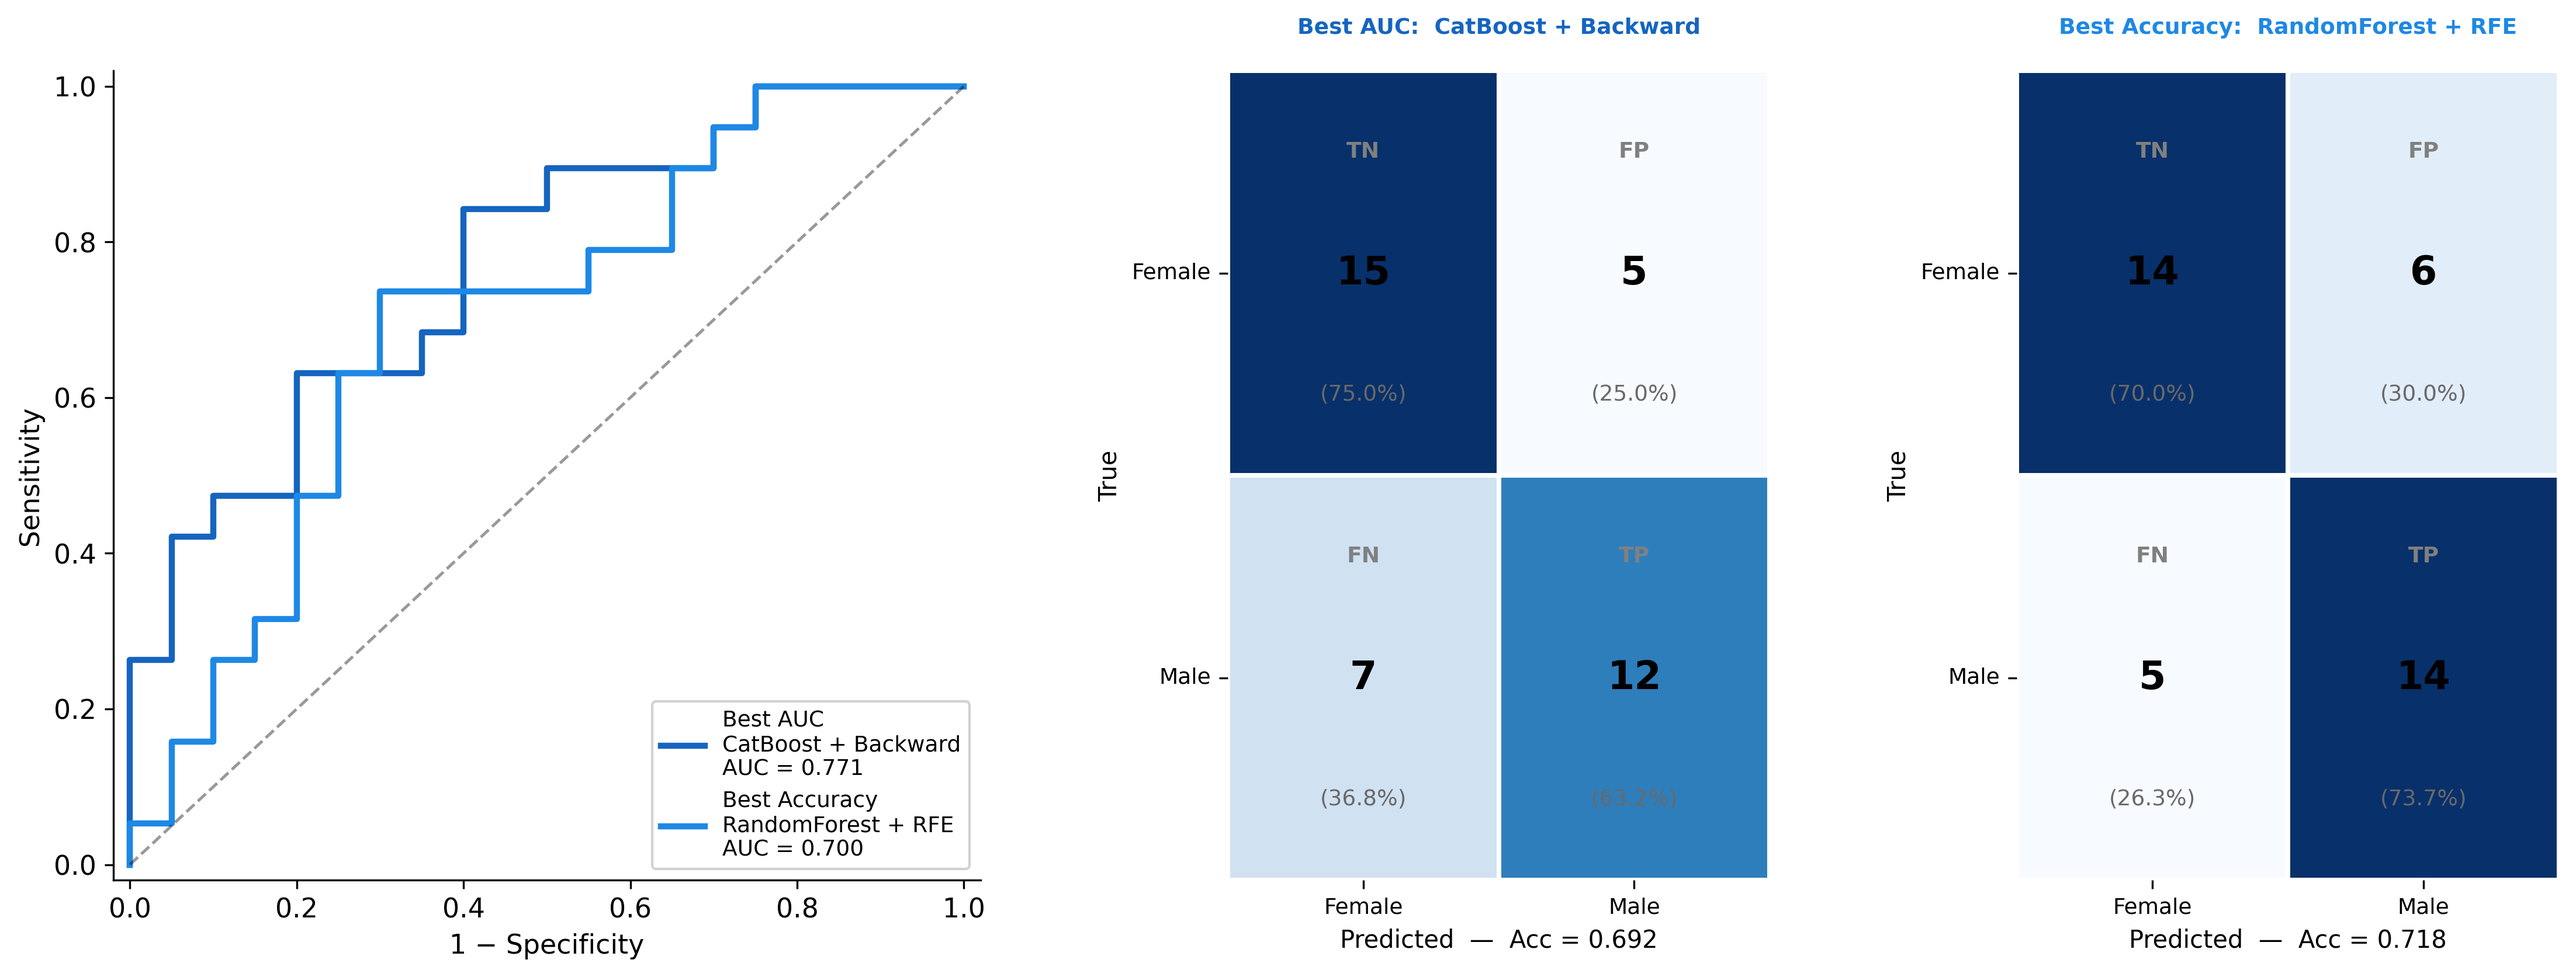
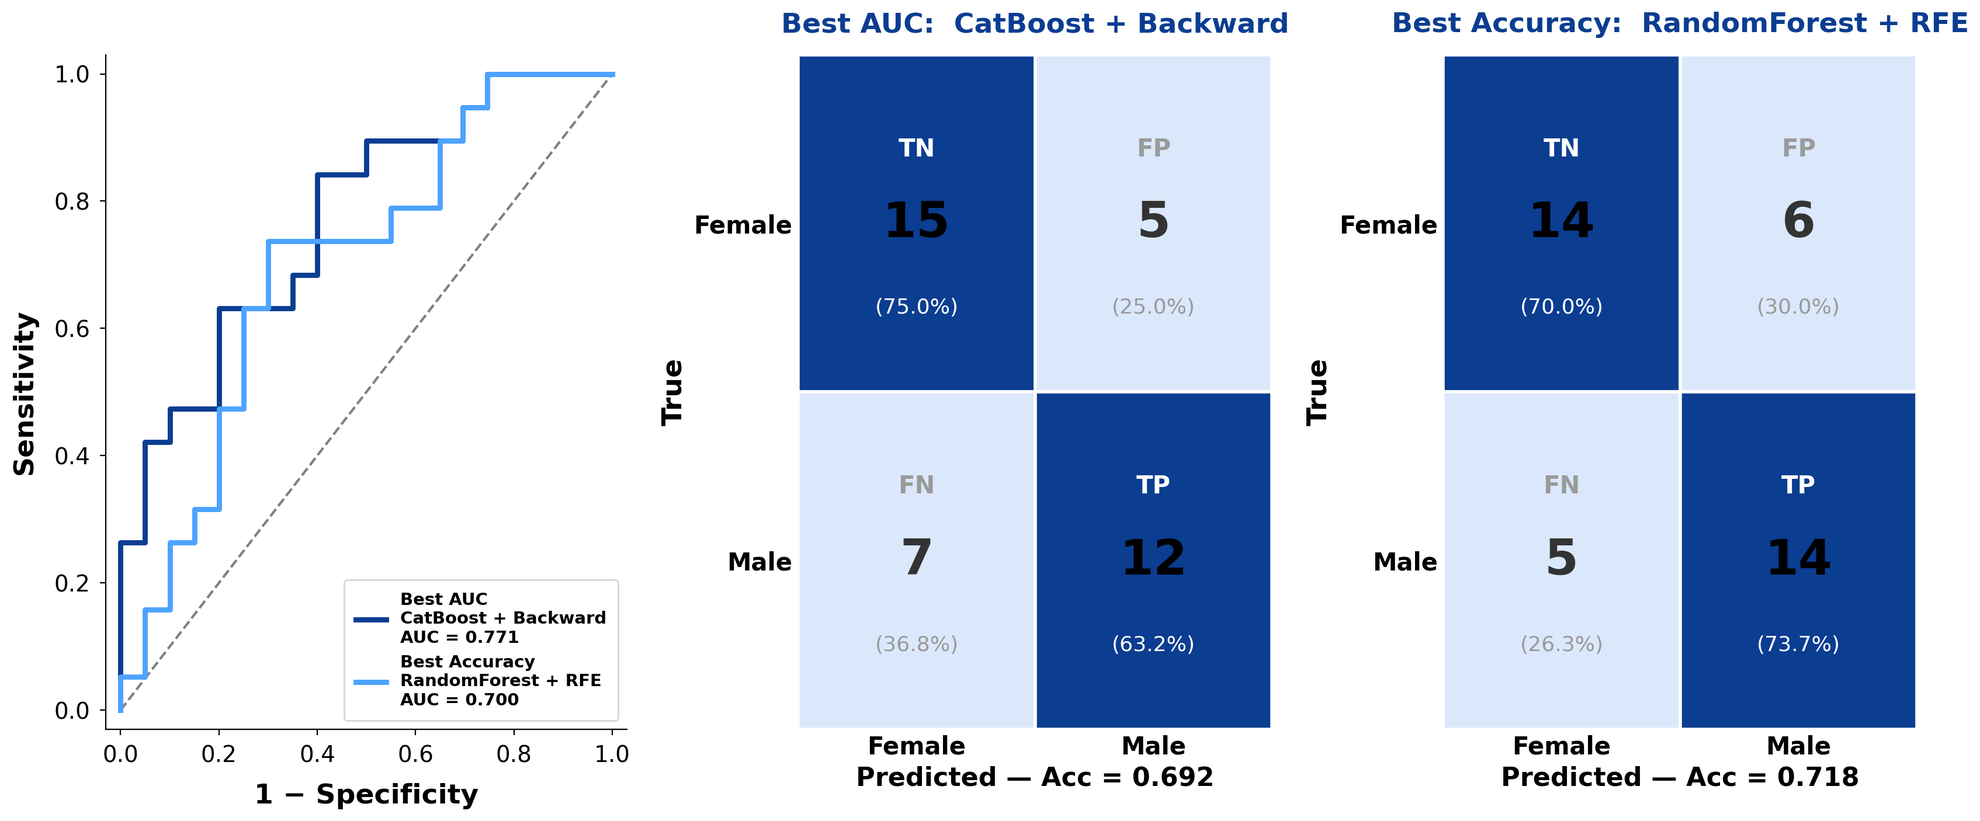
Update README and publication figures

diff --git a/README.md b/README.md
@@ -1,15 +1,15 @@
-# Machine Learning-Driven Forensic Sex Prediction Using CT-Based Nasal and Maxillary Sinus Metrics
+# Machine learning-driven forensic sex prediction using CT-based nasal and maxillary sinus metrics
 
 [![License: MIT](https://img.shields.io/badge/License-MIT-yellow.svg)](LICENSE)
 [![Python](https://img.shields.io/badge/python-3.12-blue.svg)](requirements.txt)
-[![Journal](https://img.shields.io/badge/Journal-International%20Journal%20of%20Legal%20Medicine-8A2BE2)](#citation)
+[![Journal](https://img.shields.io/badge/Journal-International%20Journal%20of%20Legal%20Medicine-8A2BE2)](https://link.springer.com/article/10.1007/s00414-026-03951-6)
+[![DOI](https://img.shields.io/badge/DOI-10.1007%2Fs00414--026--03951--6-0F6AB4)](https://doi.org/10.1007/s00414-026-03951-6)
 
 Reproducible machine learning pipeline for sex estimation from CT-based nasal and maxillary
 sinus anthropometry in an Egyptian population, comparing two feature-selection /
 hyperparameter-tuning framework orderings across six classifiers.
 
-<!-- TODO(Khaled): replace with the live DOI link once the paper is published -->
-📄 **Published in** *International Journal of Legal Medicine* — [DOI link](PASTE_PUBLISHED_LINK_HERE)
+📄 **Published online:** 19 September 2026 in *International Journal of Legal Medicine*. **Article:** [Machine learning-driven forensic sex prediction using CT-based nasal and maxillary sinus metrics](https://doi.org/10.1007/s00414-026-03951-6)
 
 ---
 
@@ -185,22 +185,23 @@ schema. This repository provides the full analysis code and the aggregate result
 
 ## Citation
 
-
-
 If you use this code or these findings, please cite:
 
-> Fakher HM, Samir M, Farag AA, Abo Elela NAM, Abd-Elshafy SZ, Bayomy HE, Ghanem KM, Shaltout ES.
-> Machine Learning-Driven Forensic Sex Prediction Using CT-Based Nasal and Maxillary Sinus
-> Metrics. *International Journal of Legal Medicine*. 2026.
-> doi: Still in production [PASTE_DOI_HERE](PASTE_PUBLISHED_LINK_HERE)
+> Fakher HM, Samir M, Farag AA, Abo Elela NAM, Abdelshafy SZ, Bayomy HE, Ghanem KM, Shaltout ES.
+> Machine learning-driven forensic sex prediction using CT-based nasal and maxillary sinus
+> Metrics. *International Journal of Legal Medicine*. 2026. Published online September 19, 2026.
+> https://doi.org/10.1007/s00414-026-03951-6
 
 ```bibtex
 @article{fakher_ml_forensic_sex,
-  title   = {Machine Learning-Driven Forensic Sex Prediction Using CT-Based Nasal and Maxillary Sinus Metrics},
-  author  = {Fakher, Haidy M. and Samir, Mohamed and Farag, Amina A. and Abo Elela, Nahed Ahmed Mahmoud and Abd-Elshafy, Shorouk Z. and Bayomy, Hanaa El-Sayed and Ghanem, Khaled M. and Shaltout, Eman S.},
+  title   = {Machine learning-driven forensic sex prediction using {CT}-based nasal and maxillary sinus metrics},
+  author  = {Fakher, Haidy M. and Samir, Mohamed and Farag, Amina A. and Abo Elela, Nahed Ahmed Mahmoud and Abdelshafy, Shorouk Z. and Bayomy, Hanaa El-Sayed and Ghanem, Khaled M. and Shaltout, Eman S.},
   journal = {International Journal of Legal Medicine},
-  year    = 2026,
-  doi     = still in production
+  year    = {2026},
+  month   = sep,
+  day     = {19},
+  doi     = {10.1007/s00414-026-03951-6},
+  url     = {https://doi.org/10.1007/s00414-026-03951-6}
 }
 ```
 
@@ -212,7 +213,7 @@ If you use this code or these findings, please cite:
 | Mohamed Samir | Univ. of Greenwich; Zagazig University | ML supervision, critical revision  |
 | Amina A. Farag | Forensic Medicine & Clinical Toxicology, Benha University | Data collection |
 | Nahed A. M. Abo Elela | Radiology, Assiut University | Radiological assessment |
-| Shorouk Z. Abd-Elshafy | Radiology, Benha University | Radiological assessment |
+| Shorouk Z. Abdelshafy | Radiology, Benha University | Radiological assessment |
 | Hanaa El-Sayed Bayomy | Community Medicine, Northern Border University / Benha University | Statistical analysis |
 | Khaled M. Ghanem | Faculty of Computers and Artificial Intelligence, Cairo University | ML analysis, model development |
 | **Eman S. Shaltout** (Corresponding) | Forensic Medicine & Clinical Toxicology, Assiut University | ML analysis, manuscript writing |

diff --git a/data/README.md b/data/README.md
@@ -2,14 +2,14 @@
 
 The raw measurement file (`New data.xlsx`) is **not distributed in this repository**.
 
-Per the manuscript's Data Availability statement, the dataset (195 subjects: 100 females,
+Per the published article's [Data Availability statement](https://doi.org/10.1007/s00414-026-03951-6), the dataset (195 subjects: 100 females,
 95 males; Assiut n=104, Benha n=91) is available from the corresponding author on
 reasonable request, consistent with the study's ethics approval
 (Assiut University Committee on Research Ethics, Approval No. 04-2025-300570).
 
 To reproduce the pipeline locally:
 
-1. Request the dataset from the corresponding author (see main [README](../README.md#contact)).
+1. Request the dataset from the corresponding author (see [Authors](../README.md#authors) in the main README).
 2. Place it here as `data/New data.xlsx`.
 3. Run [`Final_code_v2.ipynb`](../Final_code_v2.ipynb) top to bottom.
 
